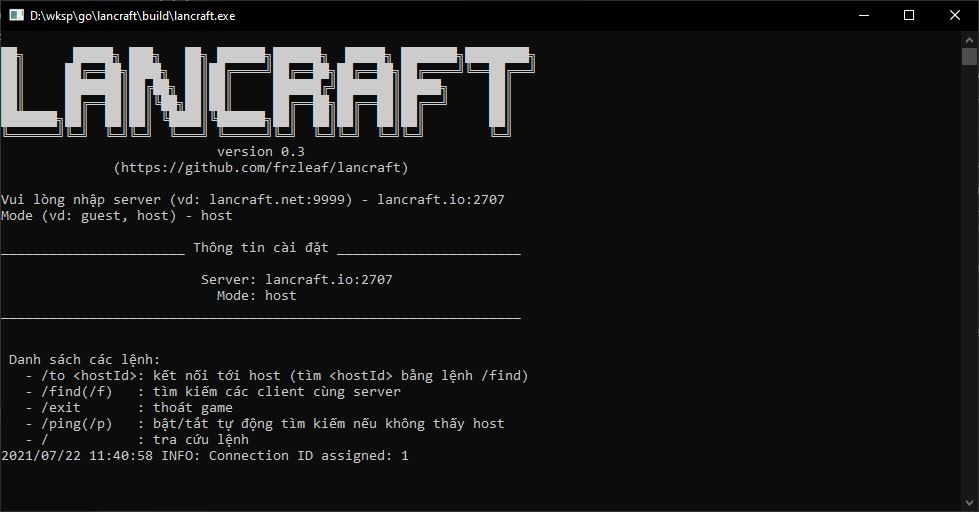
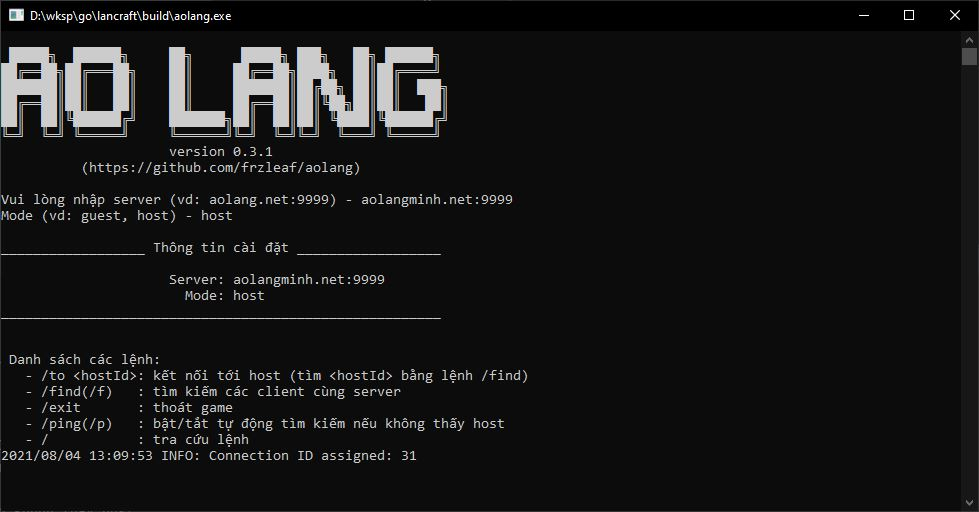
Change name lancraft -> aolang

diff --git a/src/main/proxy_client.go b/src/main/proxy_client.go
@@ -8,7 +8,7 @@ import (
 	"strings"
 )
 
-const LANCraftVersion = "0.3"
+const AolangVersion = "0.3.1"
 
 func main() {
 	fmt.Println(getBanner())
@@ -42,7 +42,7 @@ func clientByPrompt(fromArgs bool) proxy.Client {
 	}
 
 	if serverAddr == "" {
-		serverAddr = readLineFromStdin("Vui lòng nhập server (vd: lancraft.net:9999) - ")
+		serverAddr = readLineFromStdin("Vui lòng nhập server (vd: aolang.net:9999) - ")
 	}
 	if mode == "" {
 		mode = readLineFromStdin("Mode (vd: guest, host) - ")
@@ -58,11 +58,11 @@ func clientByPrompt(fromArgs bool) proxy.Client {
 	}
 
 	fmt.Printf(`
-_______________________ Thông tin cài đặt _______________________
+__________________ Thông tin cài đặt __________________
 
-                         Server: %v
-                           Mode: %v
-_________________________________________________________________
+                     Server: %v
+                       Mode: %v
+_______________________________________________________
 
 `,
 		serverAddr, mode)
@@ -93,13 +93,13 @@ func filterMode(inputMode string) string {
 
 func getBanner() string {
 	return fmt.Sprintf(`
-██╗      █████╗ ███╗   ██╗ ██████╗██████╗  █████╗ ███████╗████████╗
-██║     ██╔══██╗████╗  ██║██╔════╝██╔══██╗██╔══██╗██╔════╝╚══██╔══╝
-██║     ███████║██╔██╗ ██║██║     ██████╔╝███████║█████╗     ██║   
-██║     ██╔══██║██║╚██╗██║██║     ██╔══██╗██╔══██║██╔══╝     ██║   
-███████╗██║  ██║██║ ╚████║╚██████╗██║  ██║██║  ██║██║        ██║   
-╚══════╝╚═╝  ╚═╝╚═╝  ╚═══╝ ╚═════╝╚═╝  ╚═╝╚═╝  ╚═╝╚═╝        ╚═╝
-                           version %v
-              (https://github.com/frzleaf/lancraft)
-`, LANCraftVersion)
+ █████╗  ██████╗     ██╗      █████╗ ███╗   ██╗ ██████╗ 
+██╔══██╗██╔═══██╗    ██║     ██╔══██╗████╗  ██║██╔════╝ 
+███████║██║   ██║    ██║     ███████║██╔██╗ ██║██║  ███╗
+██╔══██║██║   ██║    ██║     ██╔══██║██║╚██╗██║██║   ██║
+██║  ██║╚██████╔╝    ███████╗██║  ██║██║ ╚████║╚██████╔╝
+╚═╝  ╚═╝ ╚═════╝     ╚══════╝╚═╝  ╚═╝╚═╝  ╚═══╝ ╚═════╝ 
+                     version %v
+          (https://github.com/frzleaf/aolang)
+`, AolangVersion)
 }

diff --git a/src/main/proxy_server.go b/src/main/proxy_server.go
@@ -12,7 +12,7 @@ func main() {
 	if len(os.Args) > 1 {
 		server.Start(os.Args[1])
 	} else {
-		log.Fatalln("Please run with args, example: lancraft_server 0.0.0.0:9999")
+		log.Fatalln("Please run with args, example: aolang_server 0.0.0.0:9999")
 	}
 
 }

diff --git a/README.md b/README.md
@@ -1,4 +1,4 @@
-# Lancraft
+# Ao làng
 
 Chơi LAN game qua internet
 
@@ -9,34 +9,34 @@ Chơi LAN game qua internet
 
 ### 1. Server
 
-Nếu bạn chưa có server thì có thể tải [file binary](https://github.com/frzleaf/lancraft/releases)
+Nếu bạn chưa có server thì có thể tải [file binary](https://github.com/frzleaf/aolang/releases)
 hoặc clone source code về để build như sau:
 
 *Linux*
 ```
-git clone https://github.com/frzleaf/lancraft
-cd lancraft
+git clone https://github.com/frzleaf/aolang
+cd aolang
 export GOPATH=$GOPATH:$PWD
-go build -o build/lancraft_server src/main/proxy_server.go
+go build -o build/aolang_server src/main/proxy_server.go
 ```
 
 *Windows*
 ```
-git clone https://github.com/frzleaf/lancraft
-cd lancraft
+git clone https://github.com/frzleaf/aolang
+cd aolang
 set GOPATH=%GOPATH%;%cd%
-go build -o build/lancraft_server.exe src/main/proxy_server.go
+go build -o build/aolang_server.exe src/main/proxy_server.go
 ```
-Chạy máy chủ lancraft:
+Chạy máy chủ aolang:
 ```
-// Tạo TCP server với địa chỉ: mylancraft.com:9999
-./build/lancraft_server mylancraft.com:9999 // linux
-./build/lancraft_server.exe mylancraft.com:9999 // windows
+// Tạo TCP server với địa chỉ: aolangminh.com:9999
+./build/aolang_server aolangminh.com:9999 // linux
+./build/aolang_server.exe aolangminh.com:9999 // windows
 ```
 
 ### 2. Client
 
-Vào mục [release](https://github.com/frzleaf/lancraft/releases) để tìm bản hỗ trợ cho máy của bạn
+Vào mục [release](https://github.com/frzleaf/aolang/releases) để tìm bản hỗ trợ cho máy của bạn
 hoặc build từ file ```src/main/proxy_client.go```
 
 
